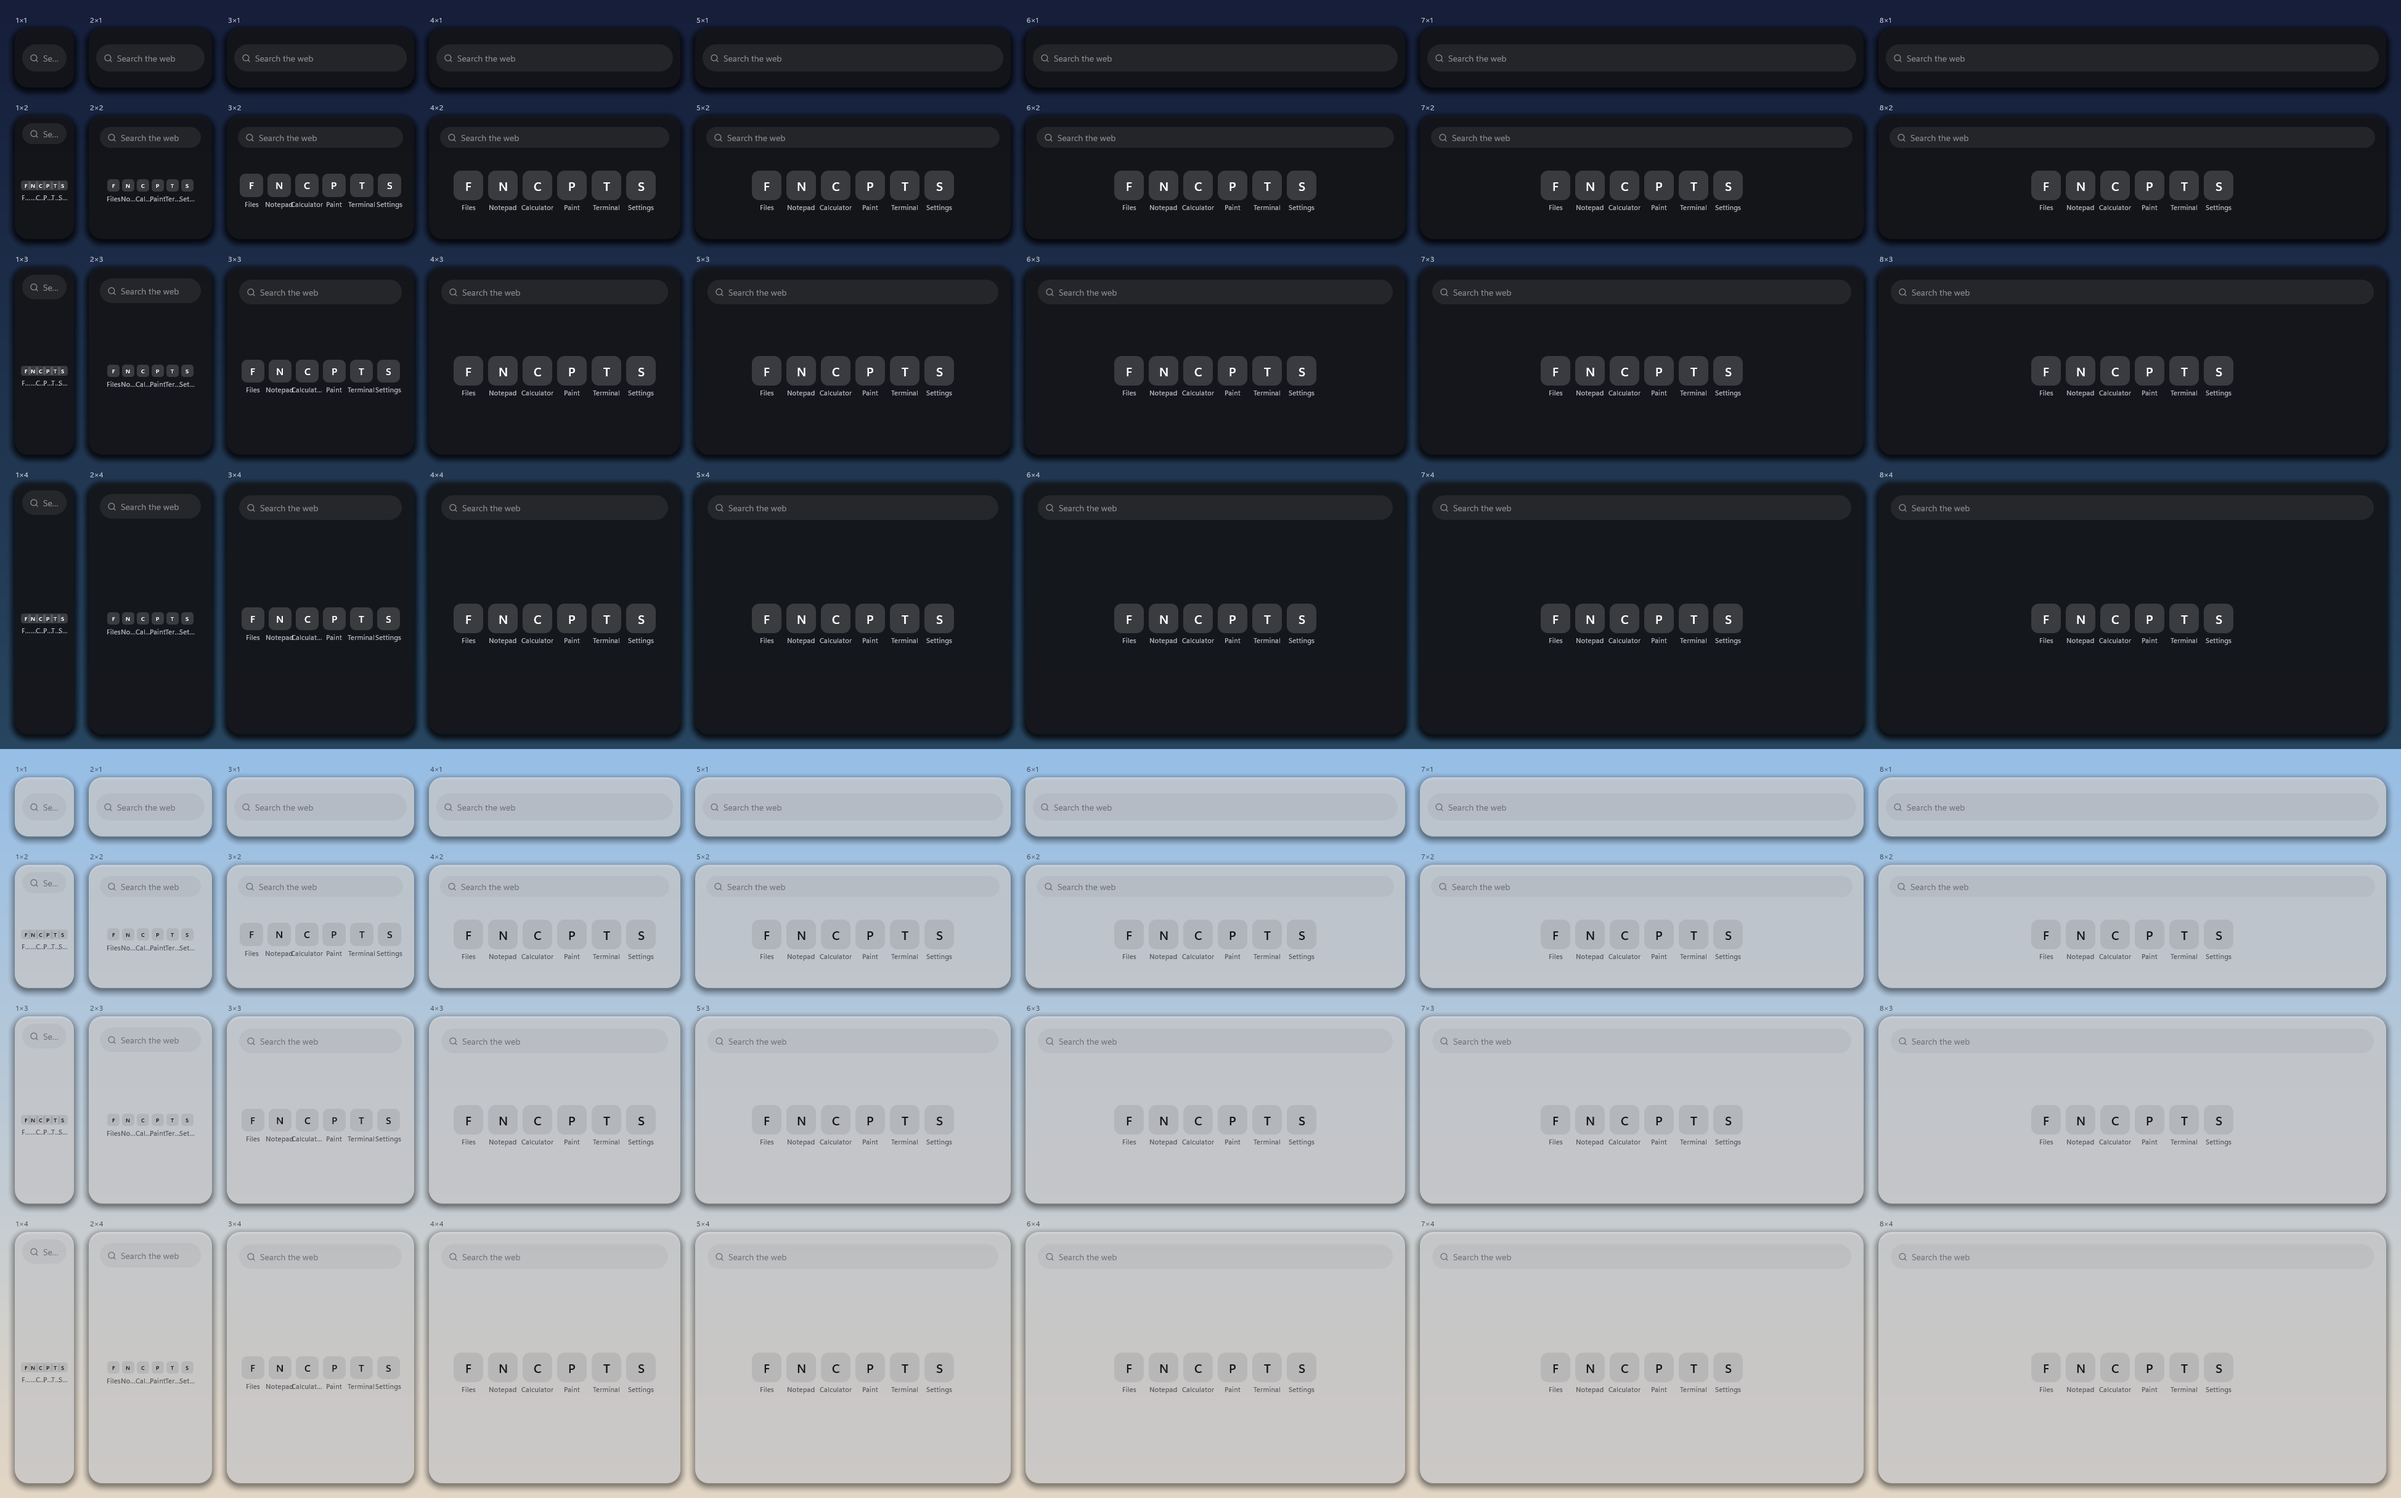
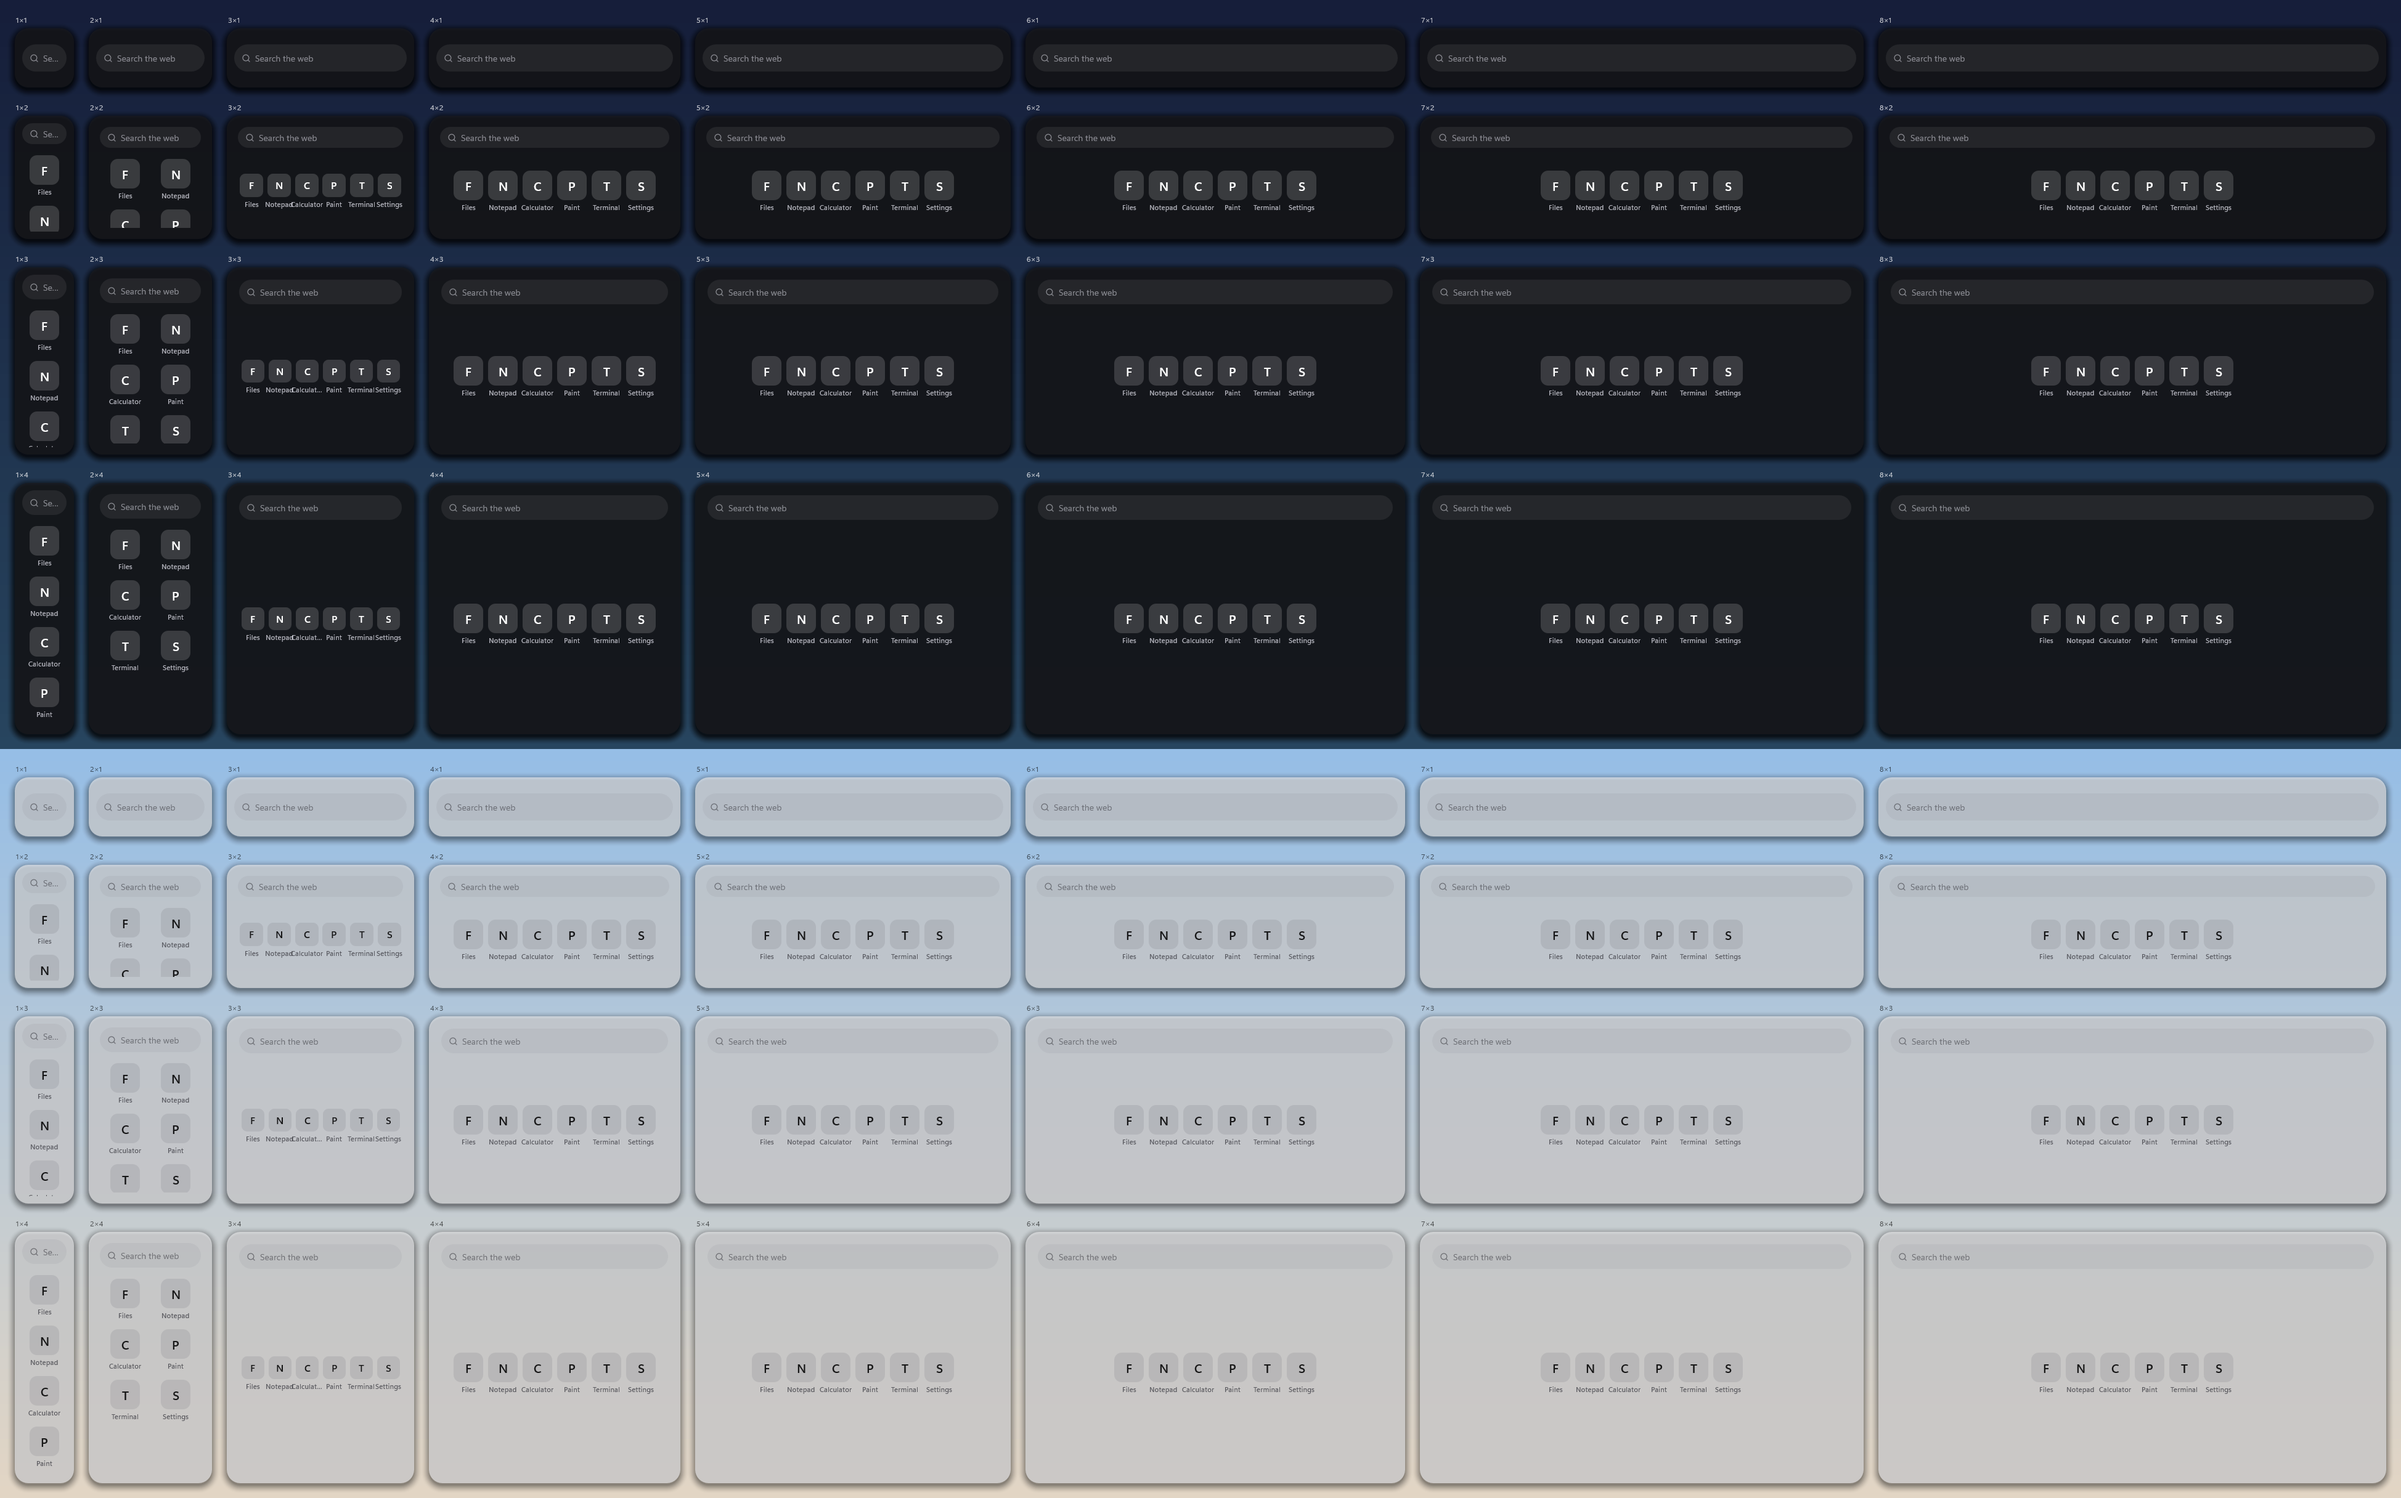
fix(widgets): timer tile centres play, mode switch only when it fits; a crowded dock becomes the grid

Changed region(s): [[0.0, 0.1875, 0.0932, 0.3125], [0.0, 0.3438, 0.0932, 0.4688], [0.0, 0.0938, 0.0932, 0.1562]]

diff --git a/crates/shell/src/widgets/views/timer.rs b/crates/shell/src/widgets/views/timer.rs
@@ -13,7 +13,7 @@ pub fn draw(c: &mut Ctx, r: Rect) {
     let (w, h) = (c.rect.width() / s, c.rect.height() / s);
     let tile = w < 130.0 || (h < 130.0 && w < 150.0);
     let row = !tile && (h < 130.0 || w / h > 1.4);
-    let switch = !tile && h >= 130.0 && w >= 175.0;
+    let switch = !tile && h >= 130.0 && w >= 290.0;
     let r = if switch {
         let (bar, rest) = r.take_top(c.px(c.f.theme.metrics.control_small), c.px(10.0));
         let selected = MODES.iter().position(|(m, _)| *m == c.m.timer.mode).unwrap_or(0);
@@ -30,7 +30,7 @@ pub fn draw(c: &mut Ctx, r: Rect) {
         let center = r.center();
         dial(c, center, d / 2.0, false);
         let p = c.px(play.min(d / s * 0.42));
-        let at = Rect::new(center.x - p / 2.0, center.y - p / 2.0, p, p).offset(0.0, d * 0.16);
+        let at = Rect::new(center.x - p / 2.0, center.y - p / 2.0, p, p);
         play_button(c, at);
         return;
     }

diff --git a/crates/shell/src/widgets/views/launcher.rs b/crates/shell/src/widgets/views/launcher.rs
@@ -91,6 +91,10 @@ fn dock(c: &mut Ctx, r: Rect, n: usize) {
         .min((r.height() - label_h) * 0.8)
         .clamp(c.px(16.0), c.px(96.0))
         .floor();
+    // Too many apps for one row: the grid, whose icons keep a readable size.
+    if size < c.px(28.0) {
+        return grid(c, r, n);
+    }
     let gap = if size < c.px(36.0) { c.px(4.0) } else { gap };
     let cell = (size + gap).min(r.width() / n as f32);
     let left = r.left + ((r.width() - cell * n as f32) / 2.0).round();
